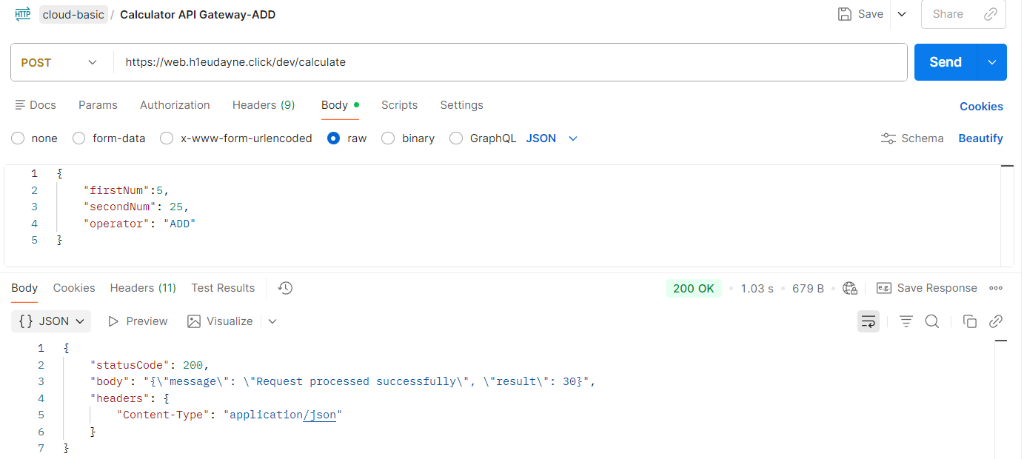
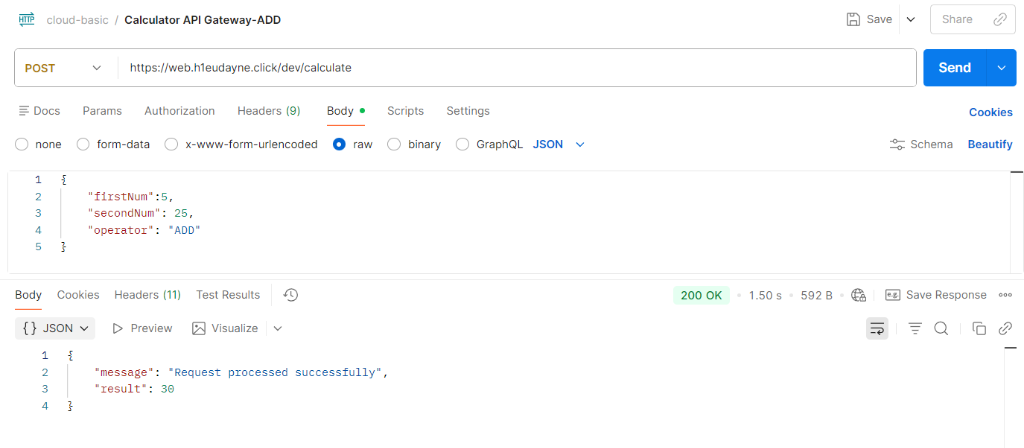
docs: update lab 2 integrate cloudfront with api gateway and s3 images

diff --git a/cloud/aws/lab/10. CloudFront/2. Lab 2 - Integrate CloudFront with API Gateway and S3/README.md b/cloud/aws/lab/10. CloudFront/2. Lab 2 - Integrate CloudFront with API Gateway and S3/README.md
@@ -202,6 +202,9 @@ Khi bật Lambda Proxy, cấu trúc dữ liệu truyền vào hàm Lambda (`even
 2. Lưu và nhấn **Deploy** code trên AWS Lambda Console.
 3. Khi bạn gửi request qua Postman hoặc xem log trên **Amazon CloudWatch Logs**, bạn sẽ thấy các log debug in ra thông tin headers và body, đặc biệt là sự xuất hiện của custom header `'source': 'CloudFront'` được chuyển tiếp thành công từ CloudFront CDN xuống Lambda.
 
+   ![Xem log CloudWatch có custom header Source CloudFront](../../../../../images/aws/cloudfront_apigw_cloudwatch_logs.png)
+   *Hình 12: Logs sự kiện CloudWatch xác nhận header Source: CloudFront và body JSON được Lambda ghi nhận thành công.*
+
 ---
 
 * **Bài trước**: [1. Lab 1 – Sử dụng CloudFront kết hợp với S3](../1.%20Lab%201%20-%20Integrate%20CloudFront%20with%20S3/1.%20Lab%201%20-%20Integrate%20CloudFront%20with%20S3.md)